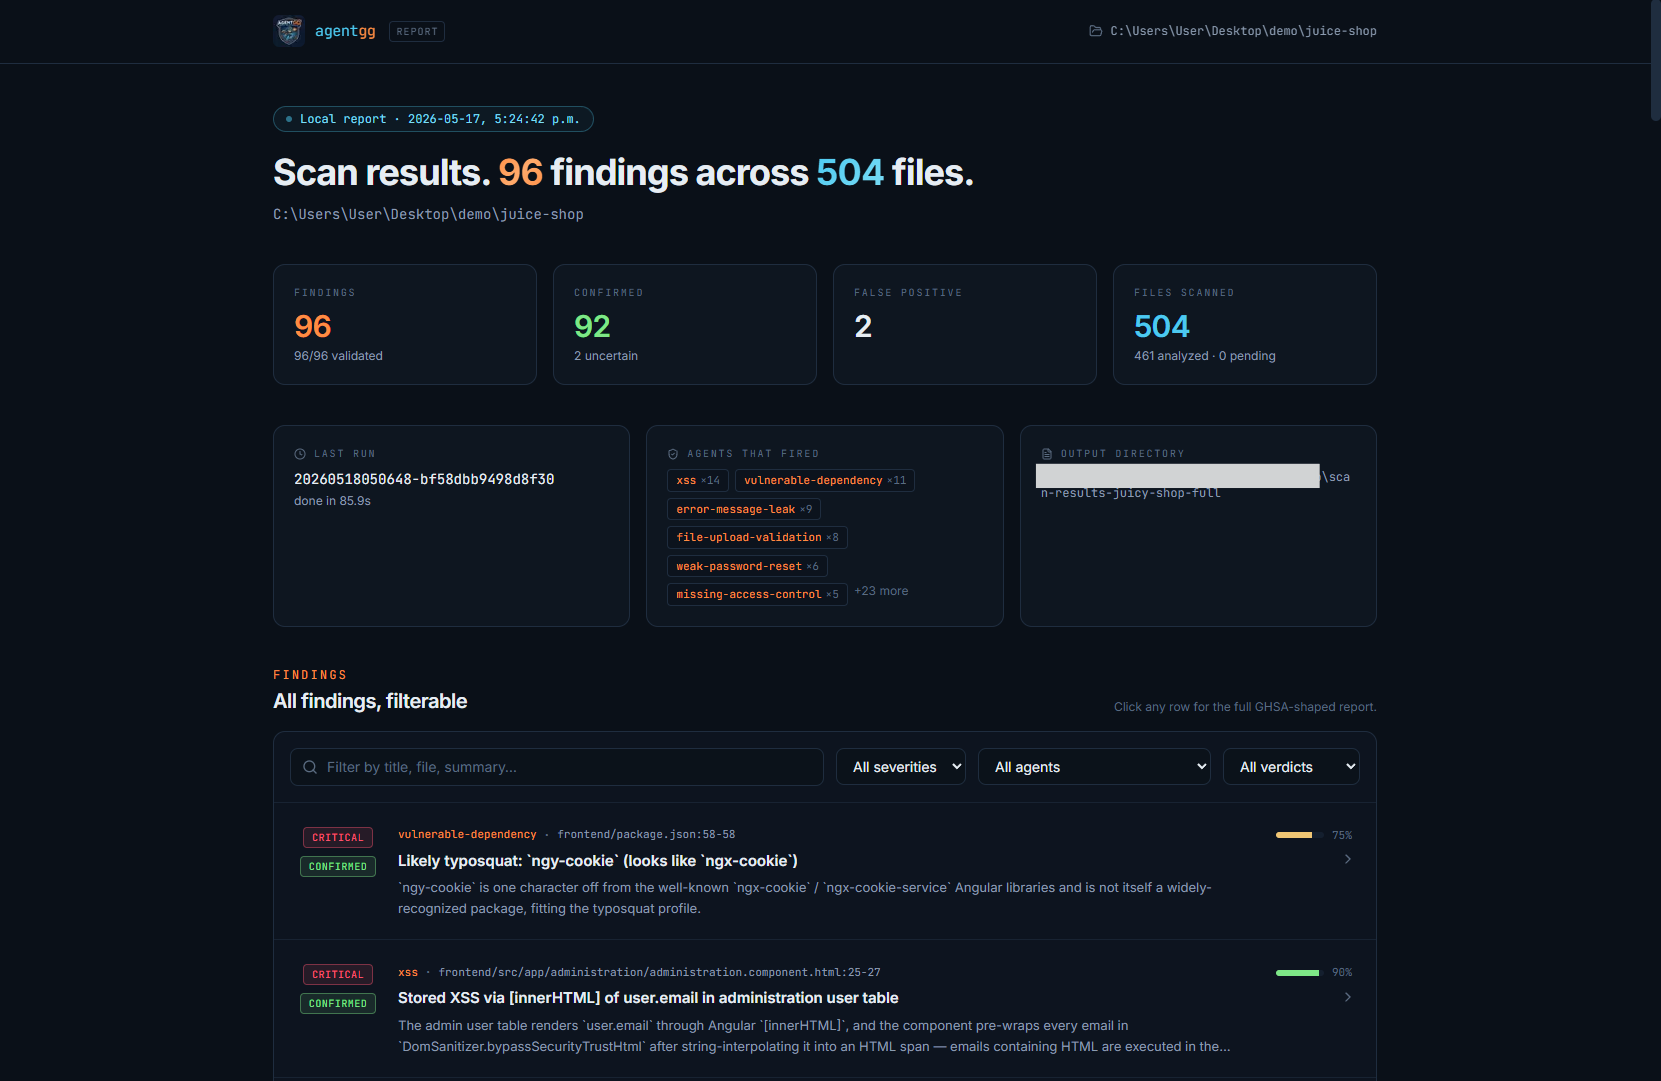
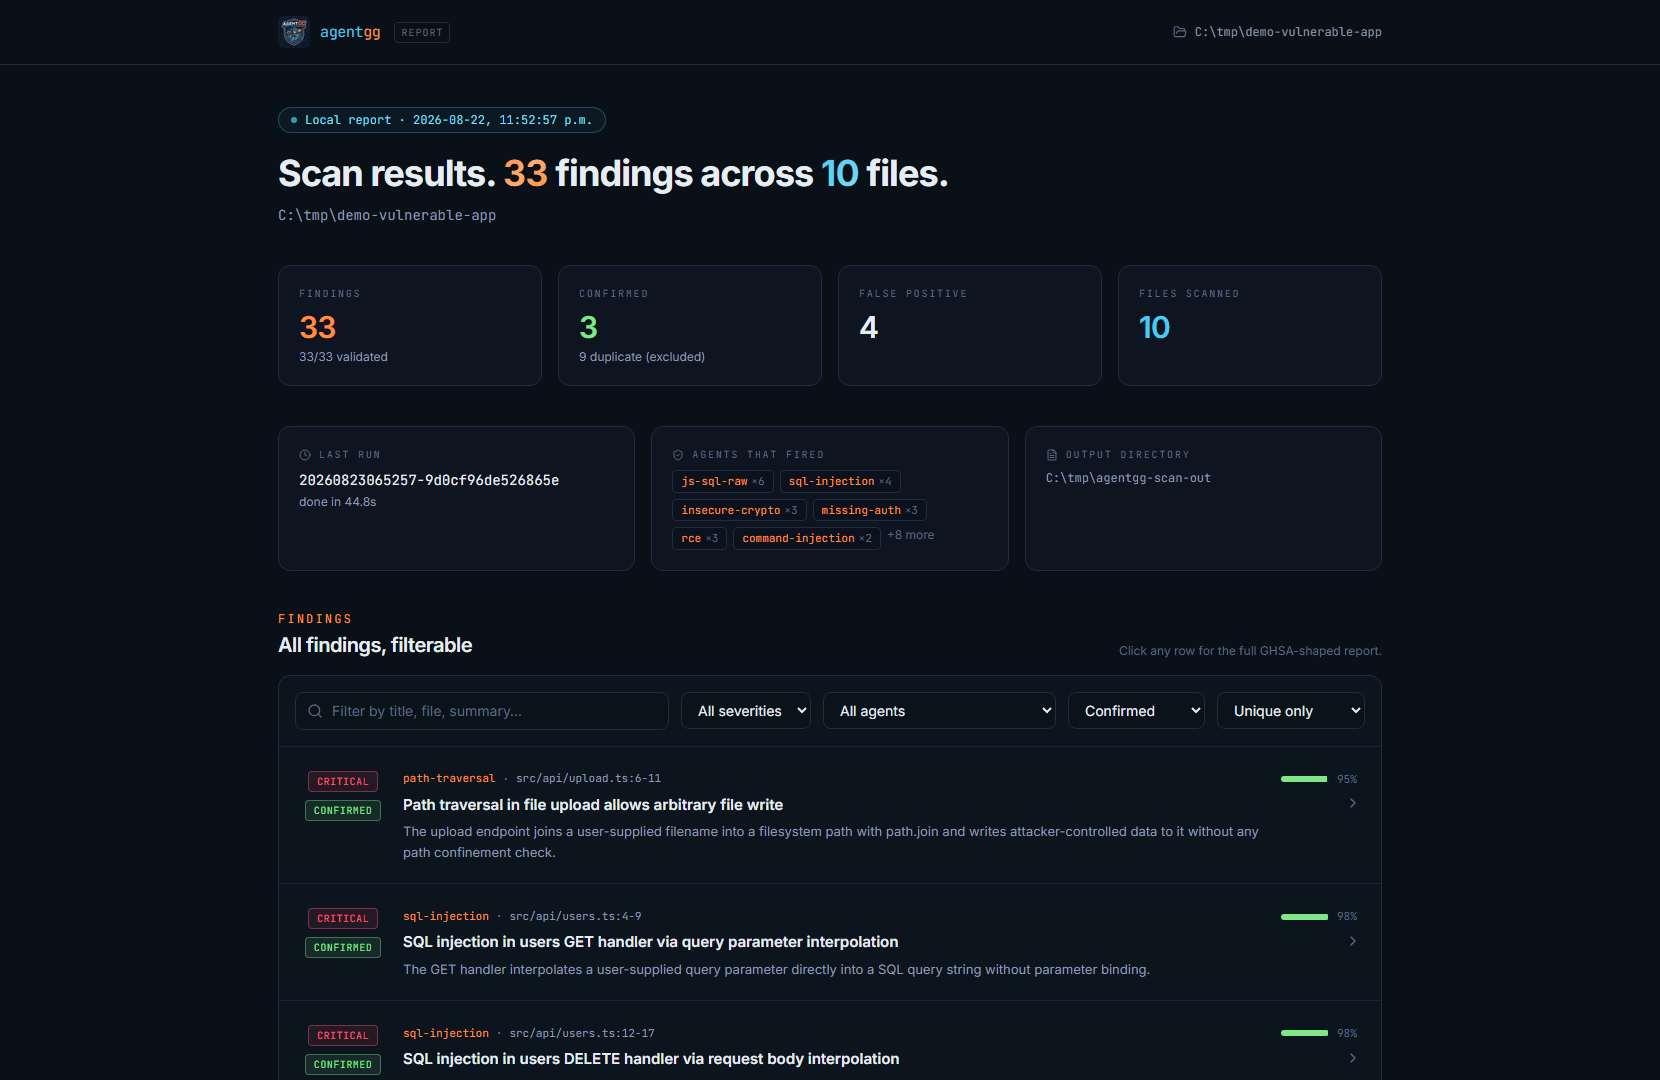
refresh the README viewer screenshot and ask for a star

diff --git a/README.md b/README.md
@@ -10,6 +10,8 @@
 
 **[agentgg.dev](https://agentgg.dev)** · [Platform](https://app.agentgg.dev) · [Agents catalog](https://github.com/agentgg-dev/agentgg-agents) · [Report a bug](https://github.com/agentgg-dev/agentgg/issues/new/choose) · [Report a security issue](https://github.com/agentgg-dev/agentgg/security)
 
+Help us grow and [star us on GitHub](https://github.com/agentgg-dev/agentgg)! ⭐
+
 > **agentgg is in beta.** Things will move and edges will be rough. Bug reports and feedback are very welcome. [Open an issue](https://github.com/agentgg-dev/agentgg/issues/new/choose).
 
 <p align="center">
